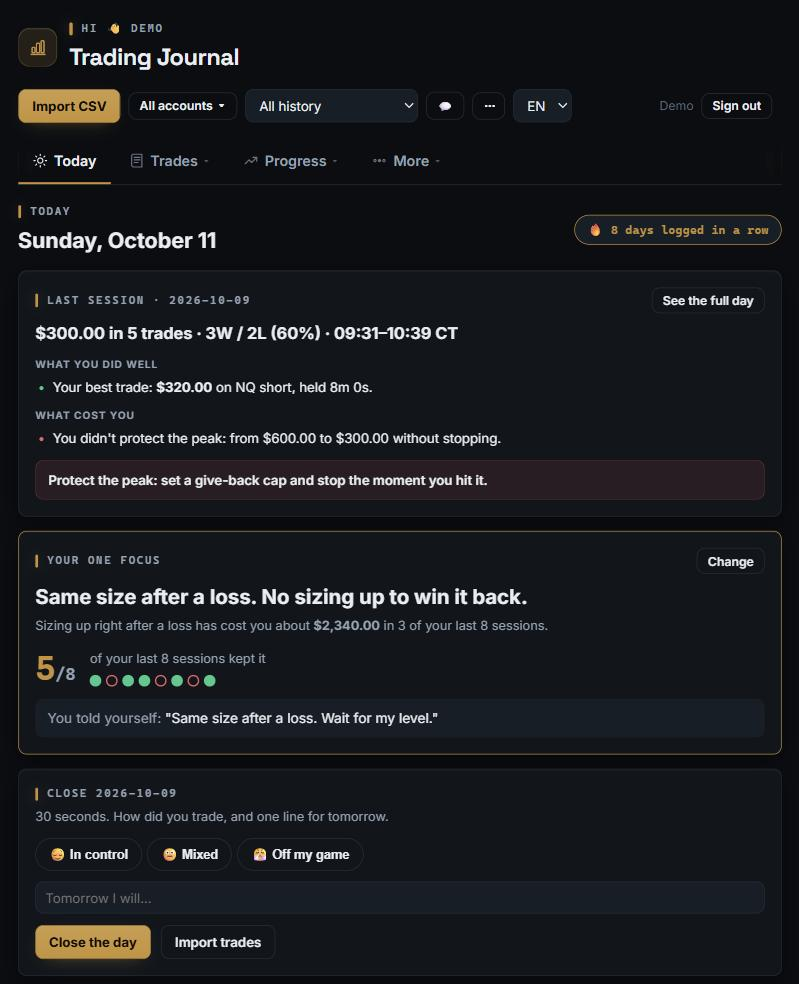
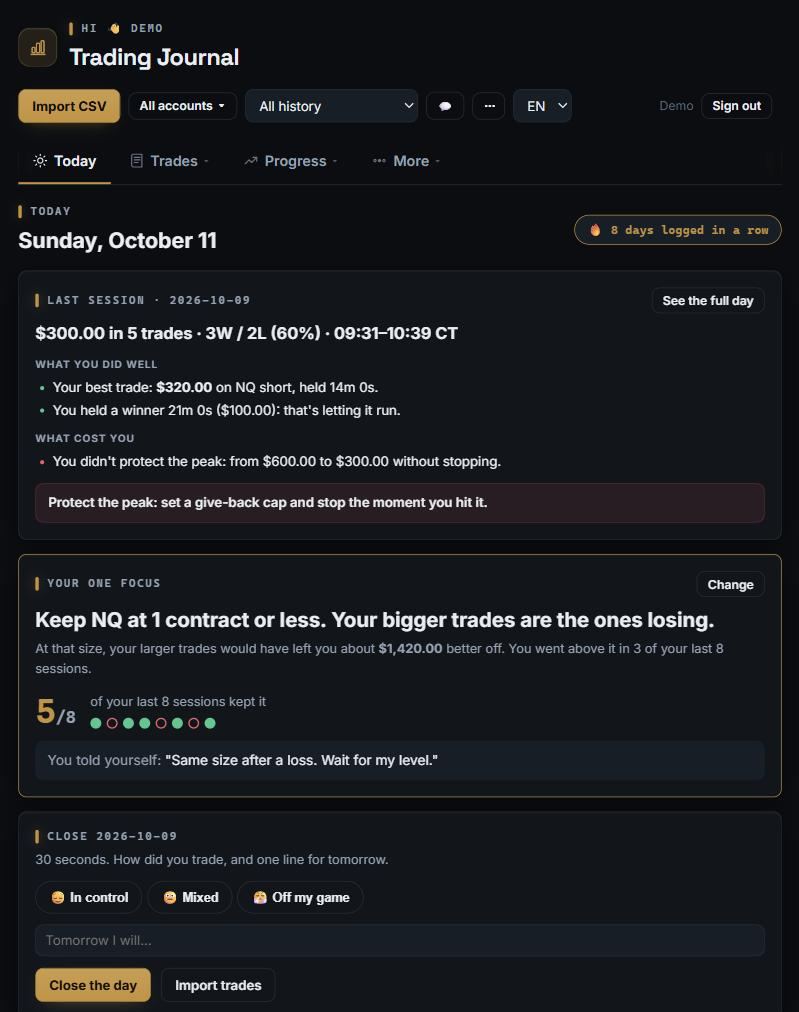
A habit already kept is not a focus; show which rules would not have helped
A candidate now needs at least two misses in the last 10 sessions, so an
old habit that is already fixed cannot win on historical cost. The focus
picker lists every rule with its replay result, including the ones that
would have cost the trader money. Landing screenshot refreshed.

diff --git a/index.html b/index.html
@@ -950,7 +950,7 @@ const I18N={
   "td.closeT":"Close {d}","td.closeLead":"30 seconds. How did you trade, and one line for tomorrow.","td.feel.ok":"In control","td.feel.mixed":"Mixed","td.feel.off":"Off my game","td.notePh":"Tomorrow I will...","td.closeBtn":"Close the day","td.pickFeel":"Pick how you traded first","td.closed":"Day closed. See you tomorrow.",
   "td.doneToday":"You are up to date.","td.nextUp":"Nothing logged for today yet.","td.import":"Import trades","td.noTrade":"I did not trade today","td.noTradeSaved":"Logged. Sitting out counts.",
   "td.wkT":"Your week · {w}","td.wk.net":"You closed the week at **{net}** over {n} trades in {d} sessions.","td.wk.up":"That is **{v}** better than the week before.","td.wk.down":"That is **{v}** behind the week before.","td.wk.focus":"You kept your focus in **{k} of {n}** sessions.","td.wk.focusPrev":"The week before it was {k} of {n}.","td.wk.best":"Best session: {d} at **{net}**.","td.wk.next":"For next week:",
-  "td.allStats":"All stats","td.pickT":"Choose your focus","td.pickLead":"One thing at a time. Ranked by how much each rule would have saved you.","td.pickAuto":"Automatic: the costliest one","td.pickOwn":"Or write your own","td.pickNone":"No costly pattern detected yet.",
+  "td.allStats":"All stats","td.pickNoT":"Rules that would not help you right now","td.pickCostYou":"would have cost you {v}","td.pickFixed":"you already keep it","td.pickFlat":"no real difference","td.pickT":"Choose your focus","td.pickLead":"One thing at a time. Ranked by how much each rule would have saved you.","td.pickAuto":"Automatic: the costliest one","td.pickOwn":"Or write your own","td.pickNone":"No costly pattern detected yet.",
   "grp.summary":"Summary","grp.routine":"Routine","grp.diary":"Trades","grp.discipline":"Discipline","grp.analysis":"Analysis","grp.progress":"Progress","grp.business":"Business",
   "tab.overview":"Stats","tab.routine":"Routine","tab.checkin":"Check-in","tab.leaks":"Leaks","tab.playbooks":"Playbooks","tab.score":"Score","tab.journal":"Trades","tab.positions":"Positions","tab.notes":"Notes","tab.lessons":"Lessons","tab.progress":"Progress",
   "les.title":"Lessons library","les.lead":"Everything you've written to yourself, in one place: daily reviews, trade notes and your honest 'why'. Your own words are the best coach you have, reread them before the next session.","les.search":"Search your lessons…","les.empty":"Nothing here yet. Your daily reviews (Check-in) and trade notes land here automatically as you write them.","les.noMatch":"No lessons match your search.","les.review":"Daily review","les.note":"Trade note","les.why":"Why I traded","les.count":"{n} entries","tab.calendar":"Calendar","tab.risk":"Risk","tab.customrules":"My Rules","tab.accounts":"Accounts","tab.finance":"Finance","tab.report":"Report",
@@ -1114,7 +1114,7 @@ const I18N={
   "td.closeT":"Cierra el {d}","td.closeLead":"30 segundos. Cómo operaste y una línea para mañana.","td.feel.ok":"En control","td.feel.mixed":"Regular","td.feel.off":"Fuera de mí","td.notePh":"Mañana voy a...","td.closeBtn":"Cerrar el día","td.pickFeel":"Primero elige cómo operaste","td.closed":"Día cerrado. Nos vemos mañana.",
   "td.doneToday":"Estás al día.","td.nextUp":"Aún no hay nada registrado hoy.","td.import":"Importar trades","td.noTrade":"Hoy no operé","td.noTradeSaved":"Registrado. No operar también cuenta.",
   "td.wkT":"Tu semana · {w}","td.wk.net":"Cerraste la semana en **{net}** con {n} trades en {d} sesiones.","td.wk.up":"Son **{v}** mejor que la semana anterior.","td.wk.down":"Son **{v}** por debajo de la semana anterior.","td.wk.focus":"Cumpliste tu foco en **{k} de {n}** sesiones.","td.wk.focusPrev":"La semana anterior fueron {k} de {n}.","td.wk.best":"Mejor sesión: {d} con **{net}**.","td.wk.next":"Para la próxima semana:",
-  "td.allStats":"Todas las estadísticas","td.pickT":"Elige tu foco","td.pickLead":"Una cosa a la vez. Ordenados por cuánto te habría ahorrado cada regla.","td.pickAuto":"Automático: el más costoso","td.pickOwn":"O escribe el tuyo","td.pickNone":"Todavía no se detecta un patrón costoso.",
+  "td.allStats":"Todas las estadísticas","td.pickNoT":"Reglas que ahora no te ayudarían","td.pickCostYou":"te habría costado {v}","td.pickFixed":"ya la cumples","td.pickFlat":"sin diferencia real","td.pickT":"Elige tu foco","td.pickLead":"Una cosa a la vez. Ordenados por cuánto te habría ahorrado cada regla.","td.pickAuto":"Automático: el más costoso","td.pickOwn":"O escribe el tuyo","td.pickNone":"Todavía no se detecta un patrón costoso.",
   "grp.summary":"Resumen","grp.routine":"Rutina","grp.diary":"Trades","grp.discipline":"Disciplina","grp.analysis":"Análisis","grp.progress":"Progreso","grp.business":"Negocio",
   "tab.overview":"Estadísticas","tab.routine":"Rutina","tab.checkin":"Check-in","tab.leaks":"Fugas","tab.playbooks":"Playbooks","tab.score":"Score","tab.journal":"Trades","tab.positions":"Posiciones","tab.notes":"Notas","tab.lessons":"Lecciones","tab.progress":"Progreso",
   "les.title":"Biblioteca de lecciones","les.lead":"Todo lo que te has escrito a ti mismo, en un solo lugar: revisiones diarias, notas de trade y tu 'por qué' honesto. Tus propias palabras son el mejor coach que tienes, reléelas antes de la próxima sesión.","les.search":"Busca en tus lecciones…","les.empty":"Aún no hay nada. Tus revisiones diarias (Check-in) y notas de trade aparecen aquí solas conforme las escribes.","les.noMatch":"Ninguna lección coincide con tu búsqueda.","les.review":"Revisión diaria","les.note":"Nota de trade","les.why":"Por qué operé","les.count":"{n} entradas","tab.calendar":"Calendario","tab.risk":"Riesgo","tab.customrules":"Mis reglas","tab.accounts":"Cuentas","tab.finance":"Finanzas","tab.report":"Informe",
@@ -3179,17 +3179,21 @@ function focusCandidates(TR){
       if(i===ot-2 && i<a.length-1){ C.overtrade.cost-=rest(a,i); C.overtrade.fail.add(d); }
     }); });
   const bs=bigSizeLeak(TR); if(bs) C.bigsize=bs;
-  Object.values(C).forEach(c=>{ if(c.cost>1 && c.fail.size>=2) out.push(c); });
+  // every rule is returned with its replay result, so the picker can also show the ones that would NOT have helped
+  Object.values(C).forEach(c=>{ c.ok=c.cost>1 && c.fail.size>=2; if(c.id!=="bigsize" || c.cap) out.push(c); });
   return out.sort((x,y)=>y.cost-x.cost);
 }
 // The focus has to be the leak the trader has NOW. Over a long history an old habit can out-cost the current one
 // in total while already being fixed, so candidates are priced on the most recent sessions only.
 const FOCUS_WINDOW=20;
 function currentFocus(TR){
-  const recentDays=new Set([...new Set(TR.map(t=>t.tday||t.date))].sort().slice(-FOCUS_WINDOW));
-  const cands=focusCandidates(TR.filter(t=>recentDays.has(t.tday||t.date))), f=(DB.settings&&DB.settings.focus)||{};
-  if(f.custom) return {custom:f.custom, cands};
-  return {pick:(f.id&&cands.find(x=>x.id===f.id))||cands[0]||null, cands};
+  const dates=[...new Set(TR.map(t=>t.tday||t.date))].sort(), recentDays=new Set(dates.slice(-FOCUS_WINDOW)), last10=dates.slice(-10);
+  const all=focusCandidates(TR.filter(t=>recentDays.has(t.tday||t.date))), f=(DB.settings&&DB.settings.focus)||{};
+  // A habit already kept in 9 of the last 10 sessions is fixed, not a focus, however much it cost before that.
+  all.forEach(c=>{ if(c.ok && last10.filter(d=>c.fail.has(d)).length<2){ c.ok=false; c.fixed=true; } });
+  const cands=all.filter(c=>c.ok);
+  if(f.custom) return {custom:f.custom, cands, all};
+  return {pick:(f.id&&cands.find(x=>x.id===f.id))||cands[0]||null, cands, all};
 }
 function focusRule(c){ return fmt(T("td.rule."+c.id),{ot:DB.settings.overtrade||8,sym:c.sym||"",cap:c.cap?sizeLabel(c.sym,c.cap):""}); }
 function weeklyLetterHtml(days, focus){
@@ -3206,12 +3210,15 @@ function weeklyLetterHtml(days, focus){
   const dow=new Date().getDay(), open=(dow===0||dow===6||dow===1)?" open":"";
   return `<details class="card td-week"${open}><summary>${fmt(T("td.wkT"),{w:cw})}</summary>${lines.map(x=>`<p>${mdb(x)}</p>`).join("")}</details>`;
 }
-function showFocusPicker(cands){
+function showFocusPicker(all){
+  const cands=all.filter(c=>c.ok), no=all.filter(c=>!c.ok);
+  const why=c=>c.fixed?T("td.pickFixed"):(c.cost<-1?fmt(T("td.pickCostYou"),{v:money1(-c.cost).replace(/^[−-]/,"")}):T("td.pickFlat"));
   const f=(DB.settings&&DB.settings.focus)||{}, esc=s=>String(s||'').replace(/"/g,'&quot;').replace(/</g,'&lt;');
   const row=(fid,label,right)=>`<button class="btn ghost" data-fid="${fid}" style="justify-content:space-between; text-align:left; gap:12px; padding:11px 13px; display:flex"><span style="flex:1; min-width:0">${label}</span>${right||''}</button>`;
   openModal(`<h1 style="margin:.1em 0 .3em; font-size:20px">${T("td.pickT")}</h1>
     <p class="small muted" style="margin:0 0 14px">${T("td.pickLead")}</p>
-    <div style="display:grid; gap:8px">${row("",T("td.pickAuto"))}${cands.map(c=>row(c.id,focusRule(c),`<span class="mono neg" style="flex:none">${money1(-c.cost)}</span>`)).join("")||`<div class="small muted">${T("td.pickNone")}</div>`}</div>
+    <div style="display:grid; gap:8px">${row("",T("td.pickAuto"))}${cands.map(c=>row(c.id,focusRule(c),`<span class="mono neg" style="flex:none">${money1(-c.cost)}</span>`)).join("")}${cands.length?"":`<div class="small muted">${T("td.pickNone")}</div>`}</div>
+    ${no.length?`<div class="small muted" style="margin-top:14px; font-weight:700">${T("td.pickNoT")}</div>${no.map(c=>`<div class="small muted" style="margin-top:6px; line-height:1.45">${focusRule(c)} <span class="faint">· ${why(c)}</span></div>`).join("")}`:""}
     <label class="small muted" style="display:block; margin-top:14px">${T("td.pickOwn")}</label>
     <input type="text" id="fcOwn" value="${esc(f.custom)}" style="width:100%; margin:4px 0 14px">
     <div class="rowflex" style="gap:10px"><button class="btn calm" id="fcSave" style="flex:1; justify-content:center; padding:11px">${T("af.save")}</button><button class="btn ghost" id="fcCancel" style="justify-content:center; padding:11px">${T("cancel")}</button></div>`);
@@ -3261,7 +3268,7 @@ function renderToday(){
   const go=t=>{ tab=t; groupLast[groupOf(t).lab]=t; render(); };
   $("#tdFull").onclick=()=>{ jExpanded=last.date; go("journal"); };
   $("#tdStats").onclick=()=>go("overview");
-  $("#tdFocus").onclick=()=>showFocusPicker(focus.cands);
+  $("#tdFocus").onclick=()=>showFocusPicker(focus.all);
   const ib=$("#tdImport"); if(ib) ib.onclick=()=>$("#importBtn").click();
   let feel="";
   v.querySelectorAll("[data-feel]").forEach(b=>b.onclick=()=>{ feel=b.dataset.feel; v.querySelectorAll("[data-feel]").forEach(x=>x.setAttribute("aria-pressed",x===b)); });
